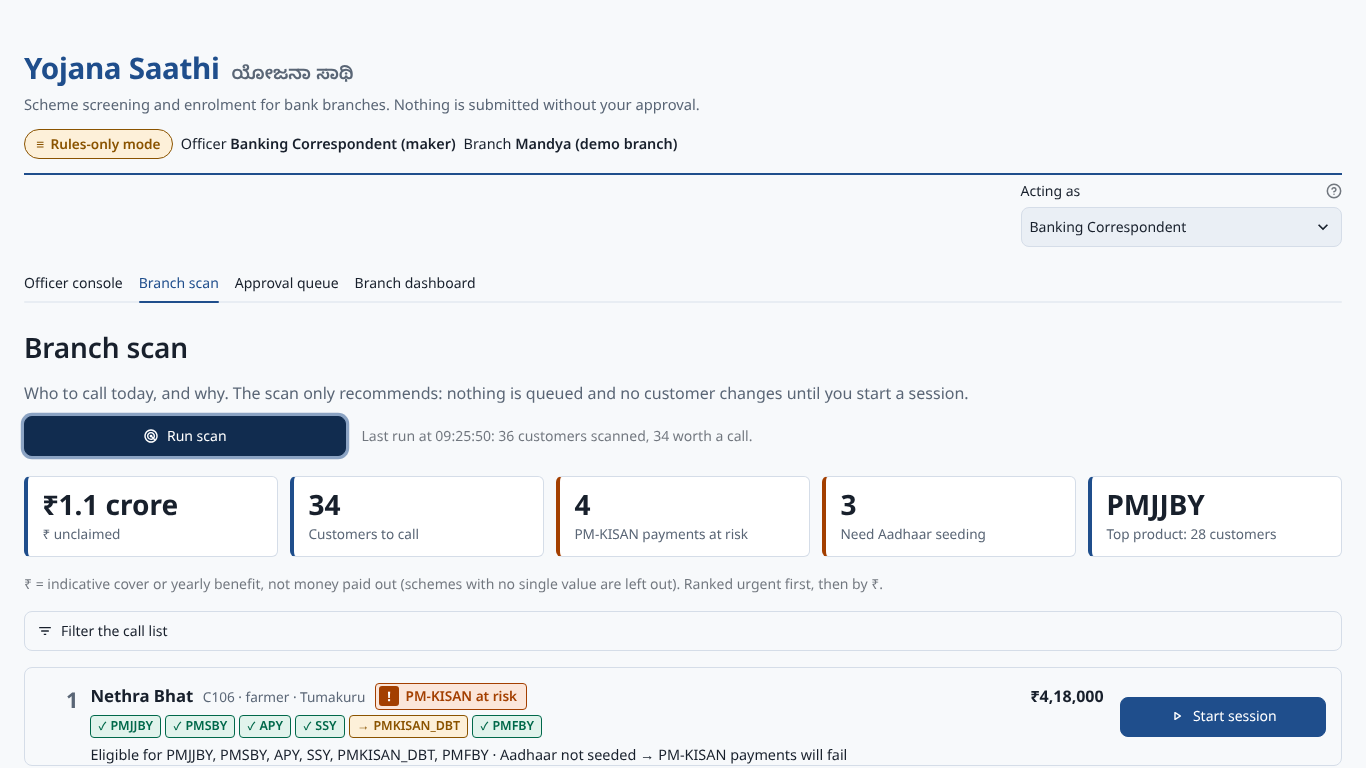
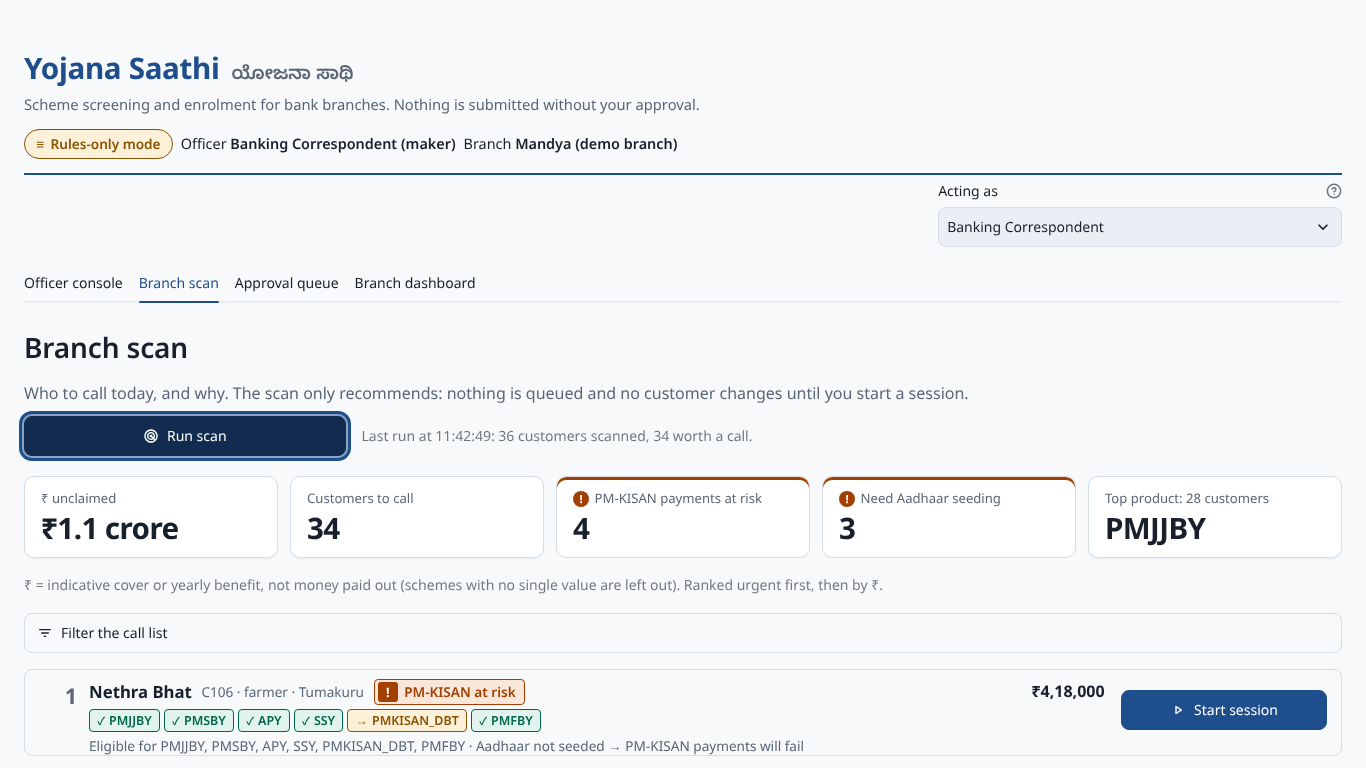
Docs and screenshots for #24
UI.md: new components, polish section, re-measured folds (Approve 701px,
Start session 730px). DEMO/ARCHITECTURE: renamed buttons. Screenshots
refreshed at 1366x768 and 820px.

Claude-Session: https://claude.ai/code/session_01CjiP3wZp54hwgq7qiK18FV

diff --git a/scripts/smoke.py b/scripts/smoke.py
@@ -180,7 +180,7 @@ def main() -> int:
         at = AppTest.from_file(str(ROOT / "ui" / "streamlit_app.py"), default_timeout=60).run()
         sm.check("UI renders without exceptions", not at.exception, [e.value for e in at.exception])
         sm.check("dashboard renders the funnel and audit log after sessions",
-                 {"Enrollment funnel", "Eligibility by product", "Audit log"} <= {h.value for h in at.subheader},
+                 {"Enrolment funnel", "Eligibility by product", "Audit log"} <= {h.value for h in at.subheader},
                  [h.value for h in at.subheader])
         sm.check("UI shows four tabs", [t.label for t in at.tabs] ==
                  ["Officer console", "Branch scan", "Approval queue", "Branch dashboard"], [t.label for t in at.tabs])

diff --git a/docs/UI.md b/docs/UI.md
@@ -44,9 +44,12 @@ Queue statuses (`queue_badge`) reuse the same tints: pending = blue, rejected / 
 | `status_badge(status)` / `queue_badge(status)` / `status_legend()` | Any status shown anywhere |
 | `card_title(name, meta, badge_html, detail)` | Title row of any card |
 | `product_card(result)` | One product: badge, benefit, an indicative value line (`value_line`) when `value_inr` is set and the status is ELIGIBLE, ELIGIBLE_BLOCKED or ALREADY_ENROLLED ("₹2,00,000 life cover (indicative)"; nothing when null or not eligible), "Why this status" with cited rules and source |
-| `kpi_tiles([(label, value[, needs_attention])])` | KPI row; reflows on narrow screens. The dashboard's "₹ unlocked" / "₹ eligible, not yet enrolled" tiles use it with a caption "indicative cover / annual benefit" |
+| `kpi_tiles([(label, value[, needs_attention])])` | KPI row; reflows on narrow screens. Quiet label on top, big tabular number below, no accent bar (#24). A tile that needs attention gets a "!" icon with the accessible name "Needs attention" and an orange top edge, so it is never colour alone. The dashboard's "₹ unlocked" / "₹ eligible, not yet enrolled" tiles use it with a caption "indicative cover / annual benefit" |
 | `format_inr(n, compact=False)` | ₹ with Indian grouping ("₹4,12,000"); `compact=True` for tiles ("₹18.4 lakh", "₹1.2 crore") |
-| `key_values(dict)` | Form payloads and profiles instead of raw JSON |
+| `key_values(dict)` | Form payloads, profiles, audit records and the activity "why" drawers instead of raw JSON |
+| `readable(value, limit)` + `field_label(field)` | Any API value as one plain line: yes/no, comma lists, "Key: value · Key: value"; field names with acronyms kept ("Customer ID", "eKYC done") (#24) |
+| `api_error_text(status, body)` | An API error as a sentence from FastAPI's `detail` (422s as "Customer ID: field required."), never the response body (#24) |
+| `event_datetime(ts)` | "24 Oct, 16:48" in local time, for tables |
 | `empty_state(title, hint)` | Any empty area: say what to do next |
 | `customer_card(customer, blocked=None)` | One customer in the picker; returns True on "Start session" (#17). `blocked` (a reason) disables the button |
 | `customer_bar(profile)` | Who is being served, plus the account / Aadhaar seeding / eKYC facts that block schemes |
@@ -56,8 +59,10 @@ Queue statuses (`queue_badge`) reuse the same tints: pending = blue, rejected / 
 | `plan_steps(state, action_labels)` + `stepper(steps)` | Numbered plan: approved steps ticked first, then each remaining step with its queue state |
 | `pipeline(stages, notes, active_tool)` | CGI's Ingest → Decide → Act → Report from `GET /sessions/{id}/timeline`, with the tools used in each stage; mid-turn the latest tool is highlighted (#18) |
 | `queue_group_header(name, meta, counts)` + `count_badges(counts)` | One customer's group in the approval queue, with status counts; escalations sort first (#19) |
+| `approval_chain_html(item, officer_name)` | Maker-checker on every queue card, in the title row where the status badge was: "✓ Prepared by Banking Correspondent › … Waiting on Branch Manager › ○ Submit"; sent back (✕) and approved (✓) states too. Icon + text per step (#24) |
+| `prep_fields(state)` | Pure: the details "Prepare all steps" still needs, from each ready plan step's `missing_mandatory`; a detail several forms share (the nominee) is asked once (#24) |
 | `rejection_note(reason, by)` + `revision_diff(rows)` | Why an item came back and what changed since: field, value at the rejection (struck through), value now. Rows come from `GET /queue/{id}/history` |
-| `pdf_first_page_png(pdf)` | Page 1 of the real PDF as a PNG (pypdfium2), shown as a thumbnail with a "View page" popover; works offline and in any browser |
+| `pdf_first_page_png(pdf)` | Page 1 of the real PDF as a PNG (pypdfium2), shown as a thumbnail with a "Zoom" popover; works offline and in any browser |
 | `call_row(row, product_names)` + `opportunity_chip(o)` | One customer on the branch-scan call list: rank, "PM-KISAN at risk" if urgent, ✓/→ chips for what they could get (the tooltip shows each one's indicative ₹), the row's indicative ₹ total (`format_inr`, hidden when 0), the reason (#38) |
 | `filter_call_list(rows, products, blockers, districts, urgent_only)` | Pure filter for the call list; keeps the scan's ranking |
 | `funnel_chart(funnel)` + `funnel_rows` / `funnel_sentence` | Dashboard funnel (Altair): count, % of the previous stage, ₹ on eligible / approved; one generated sentence (#21) |
@@ -93,15 +98,15 @@ Status changes are announced three ways: the card pulses twice (skipped with red
 
 ## Approval queue (#19)
 
-Escalated items (`NEEDS_OFFICER`) come first, highlighted. Then one group per customer, revised items with a diff on top. Each card shows the real PDF page as a thumbnail ("View page" for a readable size). On the right: what it is, who prepared it, why it was rejected, and **what changed since the rejection**. Below that, **Approve** (primary), **Reject…** (a popover with a required reason) or **Edit and send back…** (also a popover). Every action ends with a confirmation toast. Reason and edit inputs are forms, so the first click always counts. At 1366×768 the revised item's diff and Approve are visible without scrolling (checked in Chromium: Approve ends at 701px).
+Escalated items (`NEEDS_OFFICER`) come first, highlighted. Then one group per customer, revised items with a diff on top. Each card shows the real PDF page as a thumbnail ("Zoom" for a readable size). On the right: what it is, its approval chain (prepared by whom, waiting on whom: #24), why it was rejected, and **what changed since the rejection**. Below that, **Approve** (primary), **Reject…** (a popover with a required reason) or **Edit and send back…** (also a popover). Every action ends with a confirmation toast. Reason and edit inputs are forms, so the first click always counts. At 1366×768 the revised item's diff and Approve are visible without scrolling (checked in Chromium after #24: Approve still ends at 701px, because the chain replaced the badge instead of adding a line).
 
-| Priya: the diff since the rejection, ready to approve | Escalated first | "View page" |
+| Priya: the diff since the rejection, ready to approve | Escalated first | "Zoom" |
 |---|---|---|
 | ![diff](screenshots/queue-1366x768.png) | ![escalated](screenshots/queue-escalated-1366x768.png) | ![page](screenshots/queue-view-page-1366x768.png) |
 
 ## Branch scan (#38)
 
-The officer's morning to-do list, second tab. **Run scan** calls `POST /scan` (recommend-only: it queues nothing). Tiles show ₹ unclaimed (indicative, from #36, compact: "₹1.1 crore"; "—" if no listed customer has a valued scheme), customers to call, PM-KISAN payments at risk, accounts needing Aadhaar seeding, and the top product. The call list keeps the scan's ranking (urgent first), shows the top 10, and hides the filters (product, blocker, district, urgent only) in a collapsed expander. That keeps rank 1's **Start session** on screen at 1366×768 (checked in Chromium: the button ends at 736px). **Start session** on a row starts the session and switches to the Officer console. The tabs track state (`st.tabs(key="nav", on_change="rerun")`), and the switch is applied through `goto_tab` before the tabs are drawn. For the Branch Manager the buttons are locked, as in the picker (maker-checker).
+The officer's morning to-do list, second tab. **Run scan** calls `POST /scan` (recommend-only: it queues nothing). Tiles show ₹ unclaimed (indicative, from #36, compact: "₹1.1 crore"; "—" if no listed customer has a valued scheme), customers to call, PM-KISAN payments at risk, accounts needing Aadhaar seeding, and the top product. The call list keeps the scan's ranking (urgent first), shows the top 10, and hides the filters (product, blocker, district, urgent only) in a collapsed expander. That keeps rank 1's **Start session** on screen at 1366×768 (checked in Chromium after #24: the button ends at 730px). **Start session** on a row starts the session and switches to the Officer console. The tabs track state (`st.tabs(key="nav", on_change="rerun")`), and the switch is applied through `goto_tab` before the tabs are drawn. For the Branch Manager the buttons are locked, as in the picker (maker-checker).
 
 | Call list | Filtered: urgent only | One click later: the console |
 |---|---|---|
@@ -115,8 +120,8 @@ The Report stage, fourth tab. It's **read-only**: one `GET /dashboard` and one `
 2. **KPI rows** (`kpi_tiles`):
    - Customers screened · Products eligible · Pending approval · Approved · Escalated (attention when > 0) · Avg. time to approval (`format_minutes`; "—" when there's nothing to average)
    - ₹ unlocked · ₹ eligible, not yet enrolled · Rejected (attention when > 0), with the indicative-value caption from #36
-3. **Enrollment funnel** (`funnel_chart`): screened → eligible → queued → approved, each bar with its count, the % of the previous stage (not on "eligible", which counts products rather than customers) and ₹ on eligible / approved. Under it, one sentence built from the data (`funnel_sentence`).
-4. **Eligibility by product** (`product_status_chart`): 7 stacked bars coloured from `STATUS` (`status_scale`, legend in `status_legend` order). Clicking a bar sets `st.session_state["dash_product"]`, and "Filtered: … ✕ Clear" appears.
+3. **Enrolment funnel** (`funnel_chart`): screened → eligible → queued → approved, each bar with its count, the % of the previous stage (not on "eligible", which counts products rather than customers) and ₹ on eligible / approved. Under it, one sentence built from the data (`funnel_sentence`).
+4. **Eligibility by product** (`product_status_chart`): 7 stacked bars coloured from `STATUS` (`status_scale`, legend in `status_legend` order). Clicking a bar sets `st.session_state["dash_product"]`, and "Filtered: … Clear filters" appears.
 5. **Three panels** (`count_chart` over `panel_counts`): blocked by a prerequisite, most common not-eligible rules (rule text; the id is in the tooltip), and most common missing documents. They count customers within the product filter. Clicking a bar adds a second filter (rule / blocker / doc).
 6. **Customers in this view** (`result_table` over `filter_results`): customer, product, status, reason / blocker, queue status, ₹ value ("—" when null). Read-only.
 7. **Sessions by stage** (`stage_chips`): one chip per state; ESCALATED uses the attention tone when > 0.
@@ -127,6 +132,19 @@ On an empty DB the tiles read 0 / "—" and the charts are replaced by "Run a se
 | After the Ramesh and Priya flows (full page) | Clicked PMJJBY: panels and table filter |
 |---|---|
 | ![full](screenshots/dashboard-full-1366.png) | ![filtered](screenshots/dashboard-filtered-1366.png) |
+
+## Polish and accessibility pass (#24)
+
+- **No raw JSON.** The audit log's Details column and its selected record, the activity "why" drawers, approve toasts and timeline summaries all use `readable` / `key_values`. `tests/test_ui_polish.py` fails if `st.json(` or `json.dumps(` comes back into the UI. **Prepare all steps** asks for the missing details as plain inputs (nominee name, relation, pension amount, girl child's date of birth…) instead of a JSON box.
+- **Errors, loading, empty states.** API errors read as a sentence (`api_error_text`). If the API is down, the page shows what to start and a **Retry** button, and nothing else. If an LLM is configured but its call fails, a banner says the last reply came from the rules engine and what still works. Slow actions (start session, scan, prepare, approve, reject) show a spinner. `POST /sessions/{id}/act` on an unknown session is a 400 like every other session route (it was a 500).
+- **Keyboard and contrast.** Every focusable element shows a 3px ink-blue focus ring, including Streamlit buttons (their own ring is a faint grey) and the hidden radio / checkbox / toggle inputs (the ring goes on their label). Attention tiles carry an icon, not just colour.
+- **Copy.** "Enrolment" everywhere in the UI (Indian English), "Customer ID" and "eKYC" kept as acronyms, officer names instead of ids ("by Banking Correspondent"), "Doesn't know" so the button fits on a tablet, **Clear filters** and **Refresh** with icons.
+- **Tablet (820px).** The pipeline is 2 × 2 instead of 3 + 1, and "Acting as" shows the full officer name.
+- **Design.** Mercury-style KPI tiles, the approval chain on queue cards, and denser call-list rows (muted reason line), so more customers fit above the fold.
+
+| Approval chain on a queue card | Mercury-style tiles + readable audit log | Prepare all steps without JSON |
+|---|---|---|
+| ![chain](screenshots/polish-queue-chain.png) | ![audit](screenshots/polish-dashboard-audit.png) | ![prepare](screenshots/polish-prepare-form.png) |
 
 ## Screenshots
 

diff --git a/docs/DEMO.md b/docs/DEMO.md
@@ -24,9 +24,9 @@ After pulling new code, reinstall first: `pip install -r requirements.txt` (e.g.
 **2:50 Dashboard (30 s)** *(shows Report)*
 Lead with the value tiles: "₹X lakh unlocked so far; ₹Y lakh still eligible across the branch" (indicative cover / annual benefit, not money paid out). "₹ unlocked" is cumulative over every approved enrollment in `bank.db`, with no date filter, so run `python -m app.data.seed --reset` right before going on stage or rehearsal approvals will inflate it. Then point at, in order:
 1. **The funnel:** "8 eligible products → 7 queued → 7 approved", with ₹ on the bars. The sentence under it says it without narration.
-2. **Click PMJJBY** in "Eligibility by product": the three panels and "Customers in this view" filter to it. **✕ Clear**.
+2. **Click PMJJBY** in "Eligibility by product": the three panels and "Customers in this view" filter to it. **Clear filters**.
 3. **Priya's APY:** "Most common not-eligible rules" shows both rules as text (age, income-tax payer). Hover for the rule ids.
-4. **Audit log:** Event = `approval_denied` shows the Banking Correspondent's refused approval (maker-checker). Select the row for the full record.
+4. **Audit log:** Event = **Approval denied** (`approval_denied`) shows the Banking Correspondent's refused approval (maker-checker). Select the row for the full record.
 
 **3:20 Trust close (30 s)**
 "The rules decide eligibility, the agent decides the workflow, and a second officer, never the one who prepared it, decides submission. Every action is cited and logged, there's synthetic data only, and nothing is submitted without a human."
@@ -63,4 +63,4 @@ Lead with the value tiles: "₹X lakh unlocked so far; ₹Y lakh still eligible 
 ## 4. Backup plan
 
 - Recorded video of the full script (#27).
-- If Wi-Fi fails: rules-only mode still demos ingest → decide → act → report without the LLM. Answer questions with the fact form (or "Customer doesn't know"), click **Prepare all steps** to queue the steps, and fix a rejected form with **Edit and send back…** on its card in the queue tab. Reject as Branch Manager, then switch **Acting as → Banking Correspondent** to edit and send it back (it is locked for the Branch Manager), then switch back to approve.
+- If Wi-Fi fails: rules-only mode still demos ingest → decide → act → report without the LLM. Answer questions with the fact form (or "Doesn't know"), click **Prepare all steps** to queue the steps, and fix a rejected form with **Edit and send back…** on its card in the queue tab. Reject as Branch Manager, then switch **Acting as → Banking Correspondent** to edit and send it back (it is locked for the Branch Manager), then switch back to approve.

diff --git a/docs/ARCHITECTURE.md b/docs/ARCHITECTURE.md
@@ -74,7 +74,7 @@
 
 Limits (stop rules):
 - Max **5** questions per session. Remaining UNKNOWNs become `VERIFY_MANUALLY` as soon as nothing more can be asked (limit reached, or every useful question was asked and went unanswered) **and** no question is still awaiting its answer (`pending_question`).
-- A pending question is resolved only when (a) its fields get recorded, (b) the agent sets `question_unanswered`, or (c) the officer records an answer / clicks "Customer doesn't know" (`POST /facts` with the `question_id` and no facts). An unrelated message leaves it pending, and while it is pending it is the only question that can be asked (a re-ask costs no budget).
+- A pending question is resolved only when (a) its fields get recorded, (b) the agent sets `question_unanswered`, or (c) the officer records an answer / clicks "Doesn't know" (`POST /facts` with the `question_id` and no facts). An unrelated message leaves it pending, and while it is pending it is the only question that can be asked (a re-ask costs no budget).
 - Max **8** tool calls per agent turn, and max **2** revisions per rejected item; after that, escalate to the officer as `NEEDS_OFFICER`.
 - If the LLM call fails, the session falls back to "rules-only mode": statuses still shown, and the next question comes from a fixed order.
 
@@ -90,7 +90,7 @@ Limits (stop rules):
 7. The API returns the reply + the fresh `SessionState` (product statuses, plan, queue items).
 8. The UI re-renders the whole console.
 
-**Rules-only path (no LLM key, or the LLM call fails):** the same tools run without the model. The officer records answers with `POST /sessions/{id}/facts` (or "Customer doesn't know": the `question_id` with no facts), queues every actionable step with `POST /sessions/{id}/act` ("Prepare all steps"), and fixes rejected or escalated items with `POST /queue/{id}/revise`. Every item still waits for an explicit approve.
+**Rules-only path (no LLM key, or the LLM call fails):** the same tools run without the model. The officer records answers with `POST /sessions/{id}/facts` (or "Doesn't know": the `question_id` with no facts), queues every actionable step with `POST /sessions/{id}/act` ("Prepare all steps"), and fixes rejected or escalated items with `POST /queue/{id}/revise`. Every item still waits for an explicit approve.
 
 ## Why each piece exists
 

diff --git a/AGENTS.md b/AGENTS.md
@@ -111,6 +111,7 @@ tests/
   test_prompt_hardening.py fake-LLM regressions from the live run (#12): plan fields, siblings, retry, officer-only facts
   test_value.py            ₹ value: catalogue validation, dashboard sums, format_inr
   test_dashboard.py        dashboard: funnel / by-product / avg time, read-only GETs, /audit filters, privacy
+  test_ui_polish.py        UI polish (#24): no raw JSON, readable errors, approval chain, attention icons, prepare form
 scripts/
   check_guardrails.py      static checks for the non-negotiable rules
   check_docs_sync.py       docs/ ↔ code contract checks
